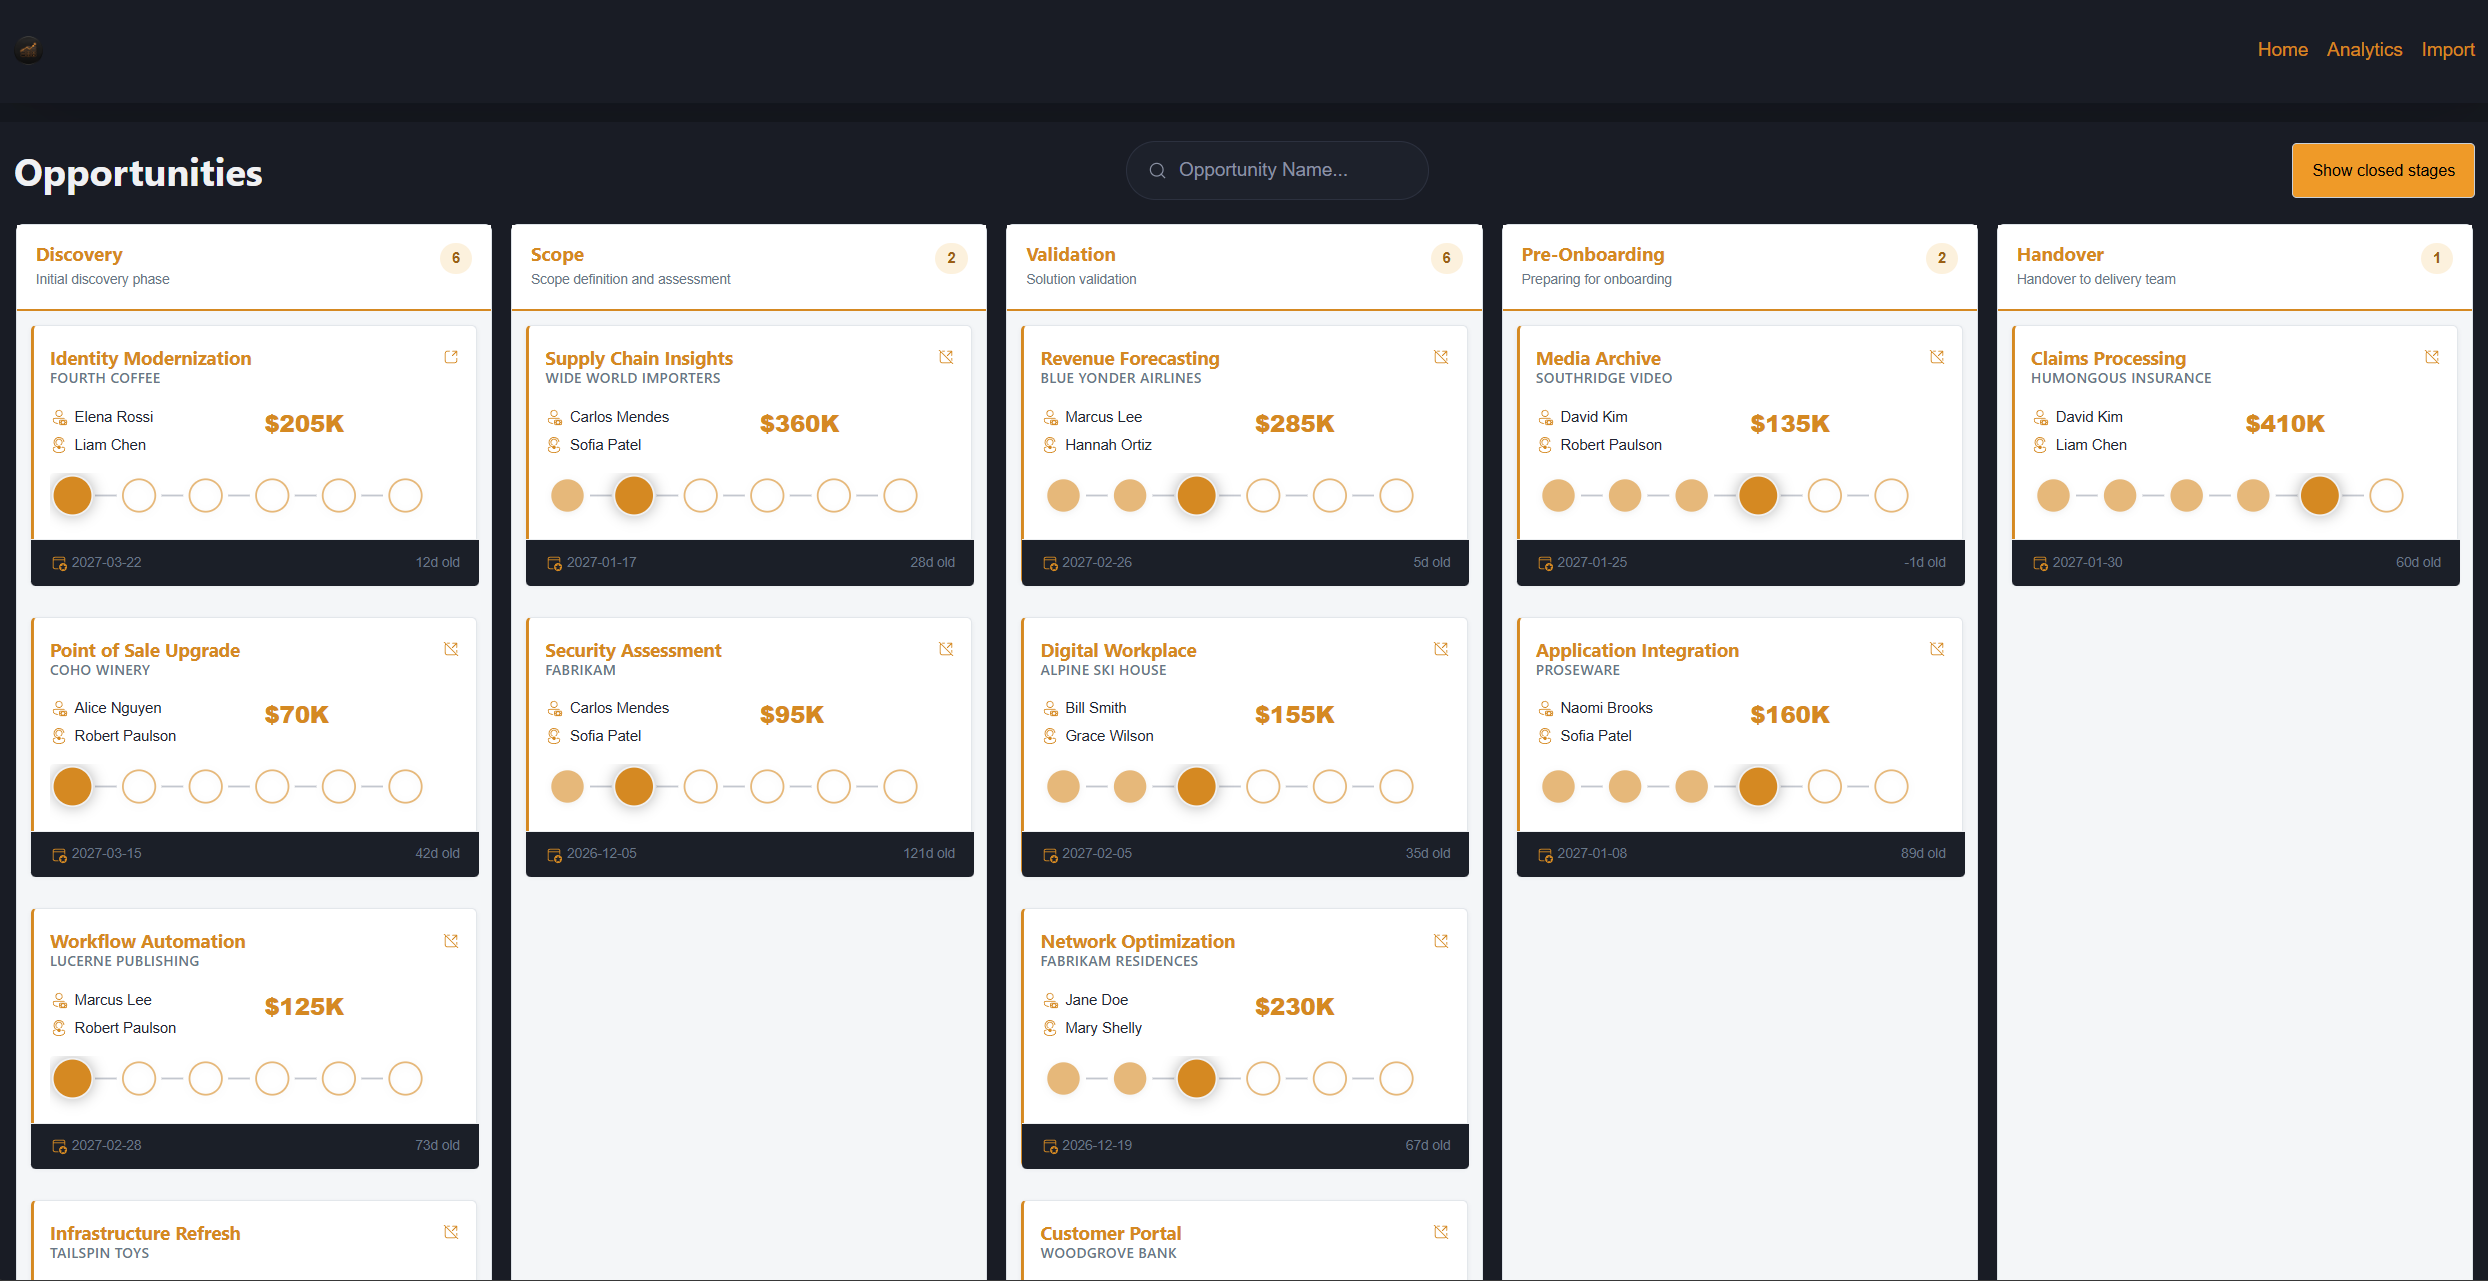
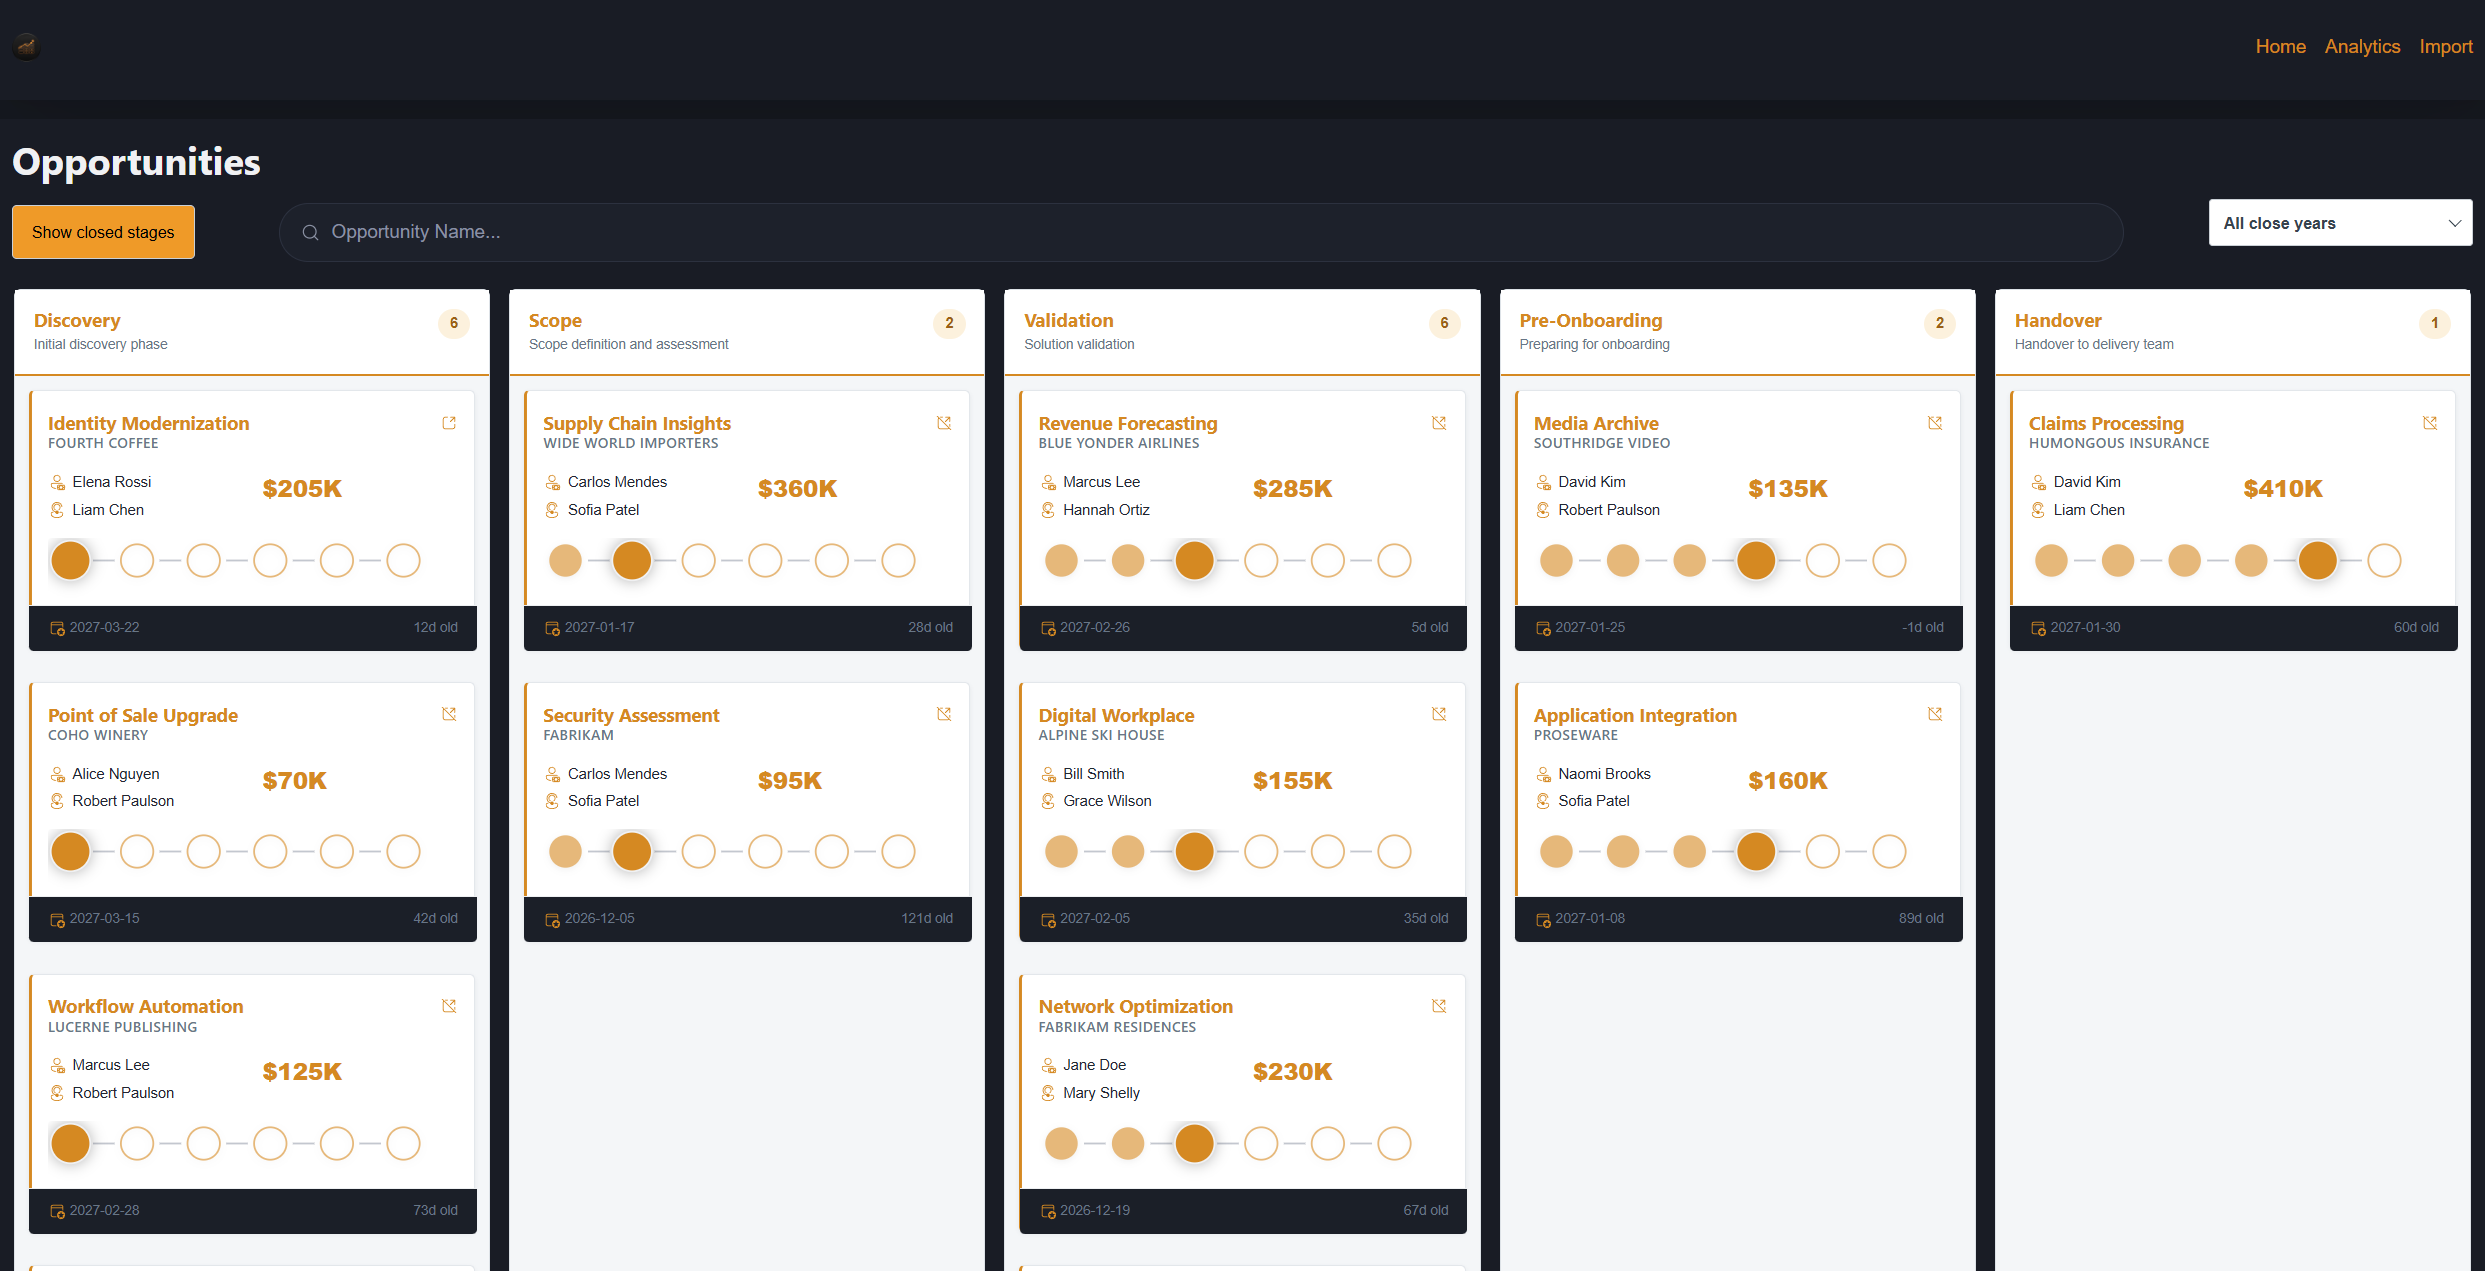
updated readme

Changed region(s): [[0.0, 0.0921, 1.0, 1.0], [0.8986, 0.0307, 1.0, 0.0614], [0.8986, 0.3068, 0.9296, 0.3375]]

diff --git a/README.md b/README.md
@@ -24,3 +24,7 @@ Visit `http://localhost:80`
 ![](Screenshots/ss01.png)
 
 ![](Screenshots/ss02.png)
+
+![](Screenshots/ss03.png)
+
+![](Screenshots/ss04.png)
